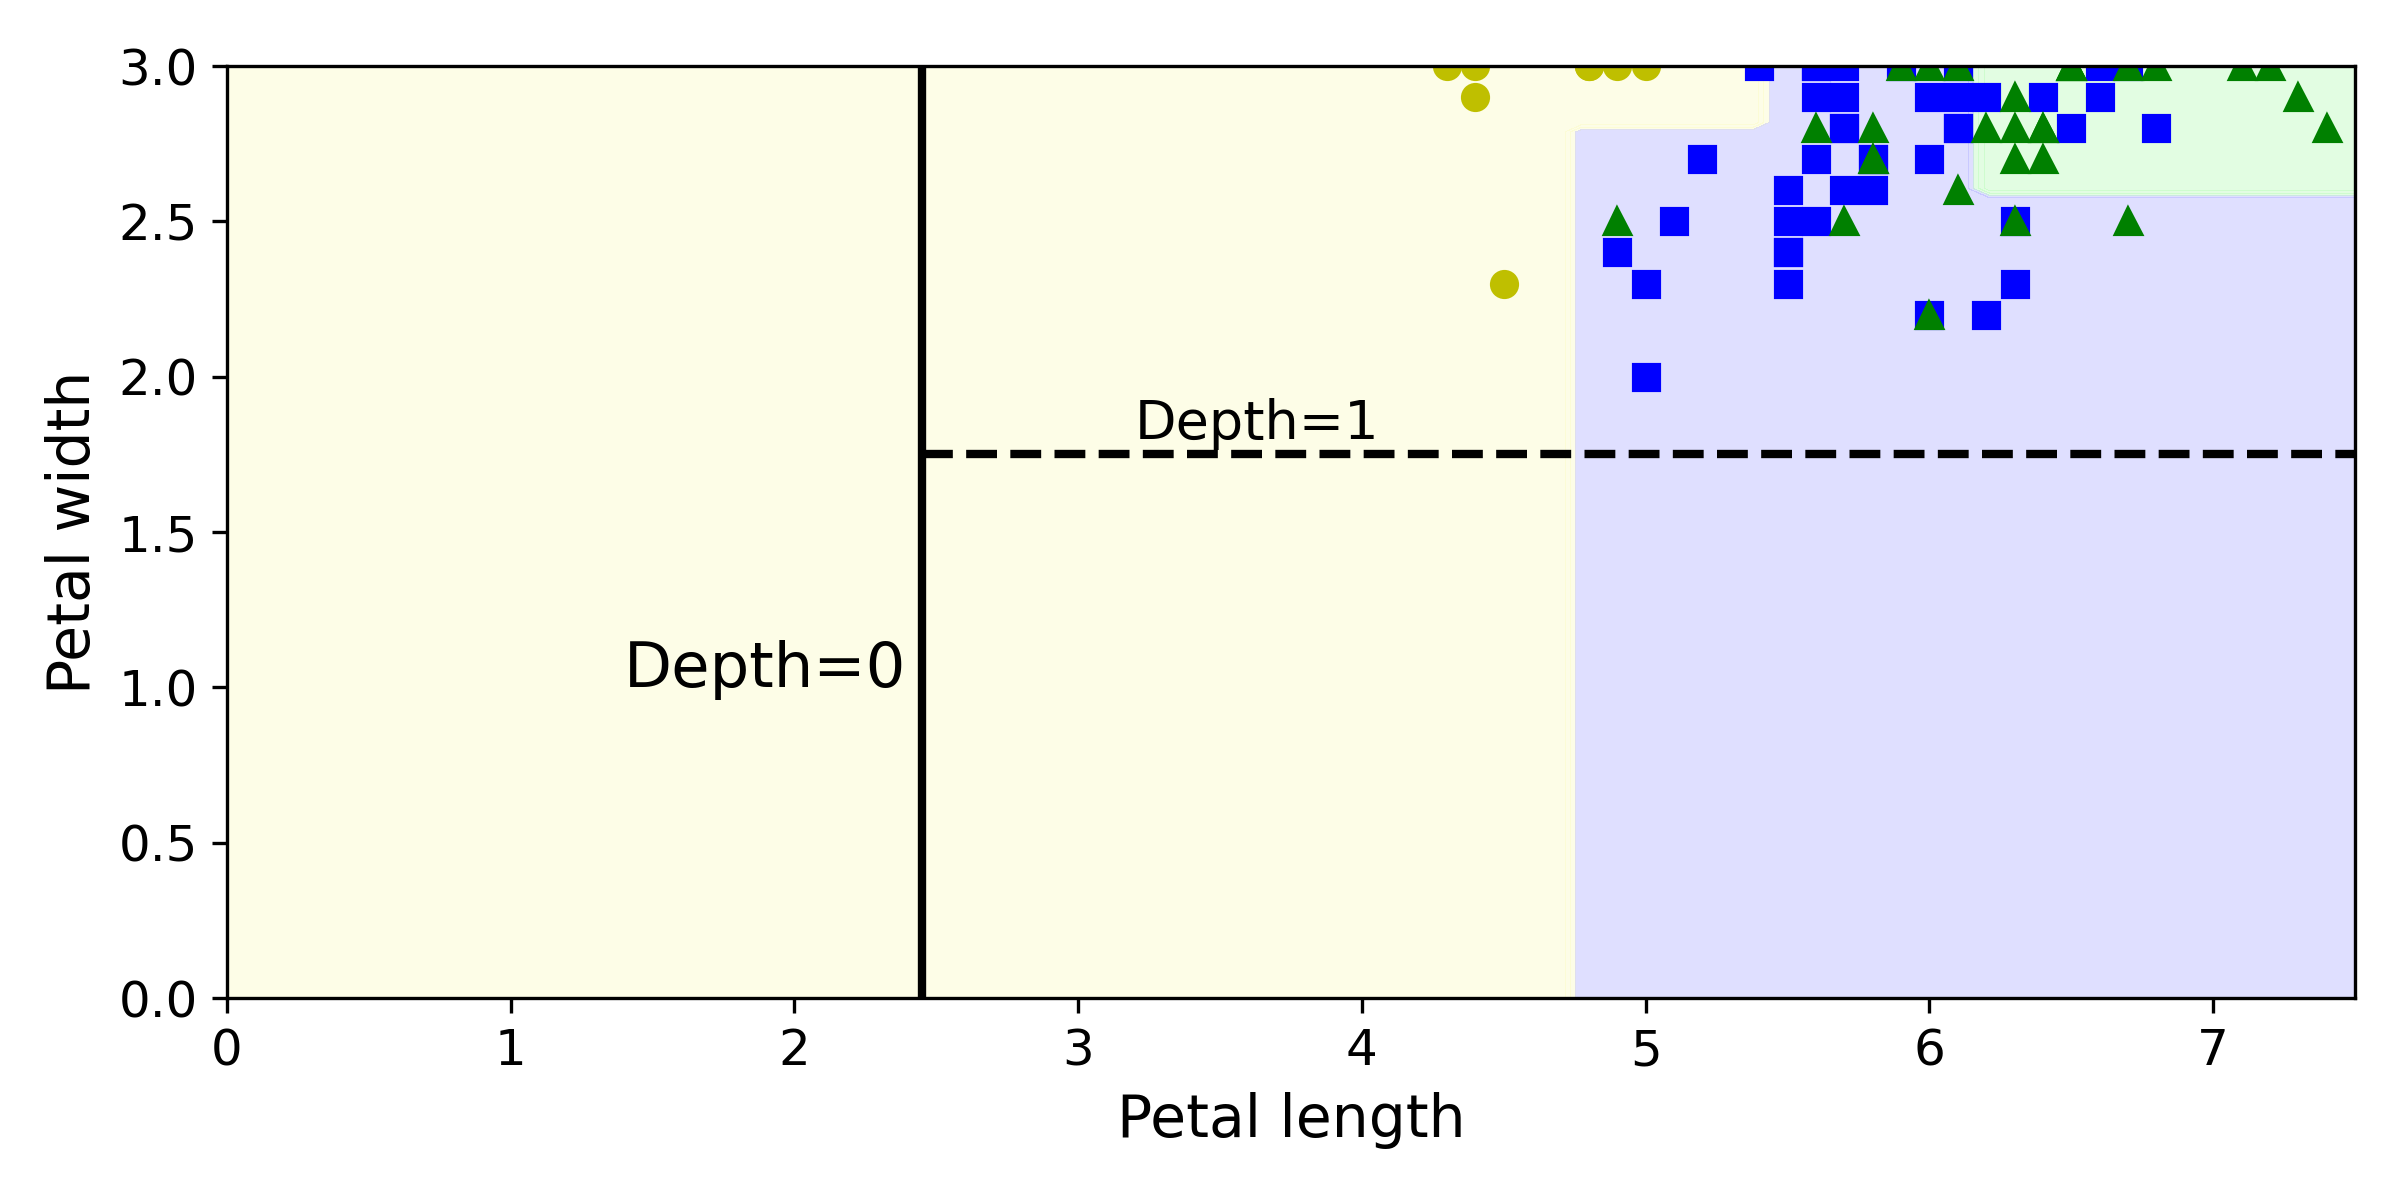
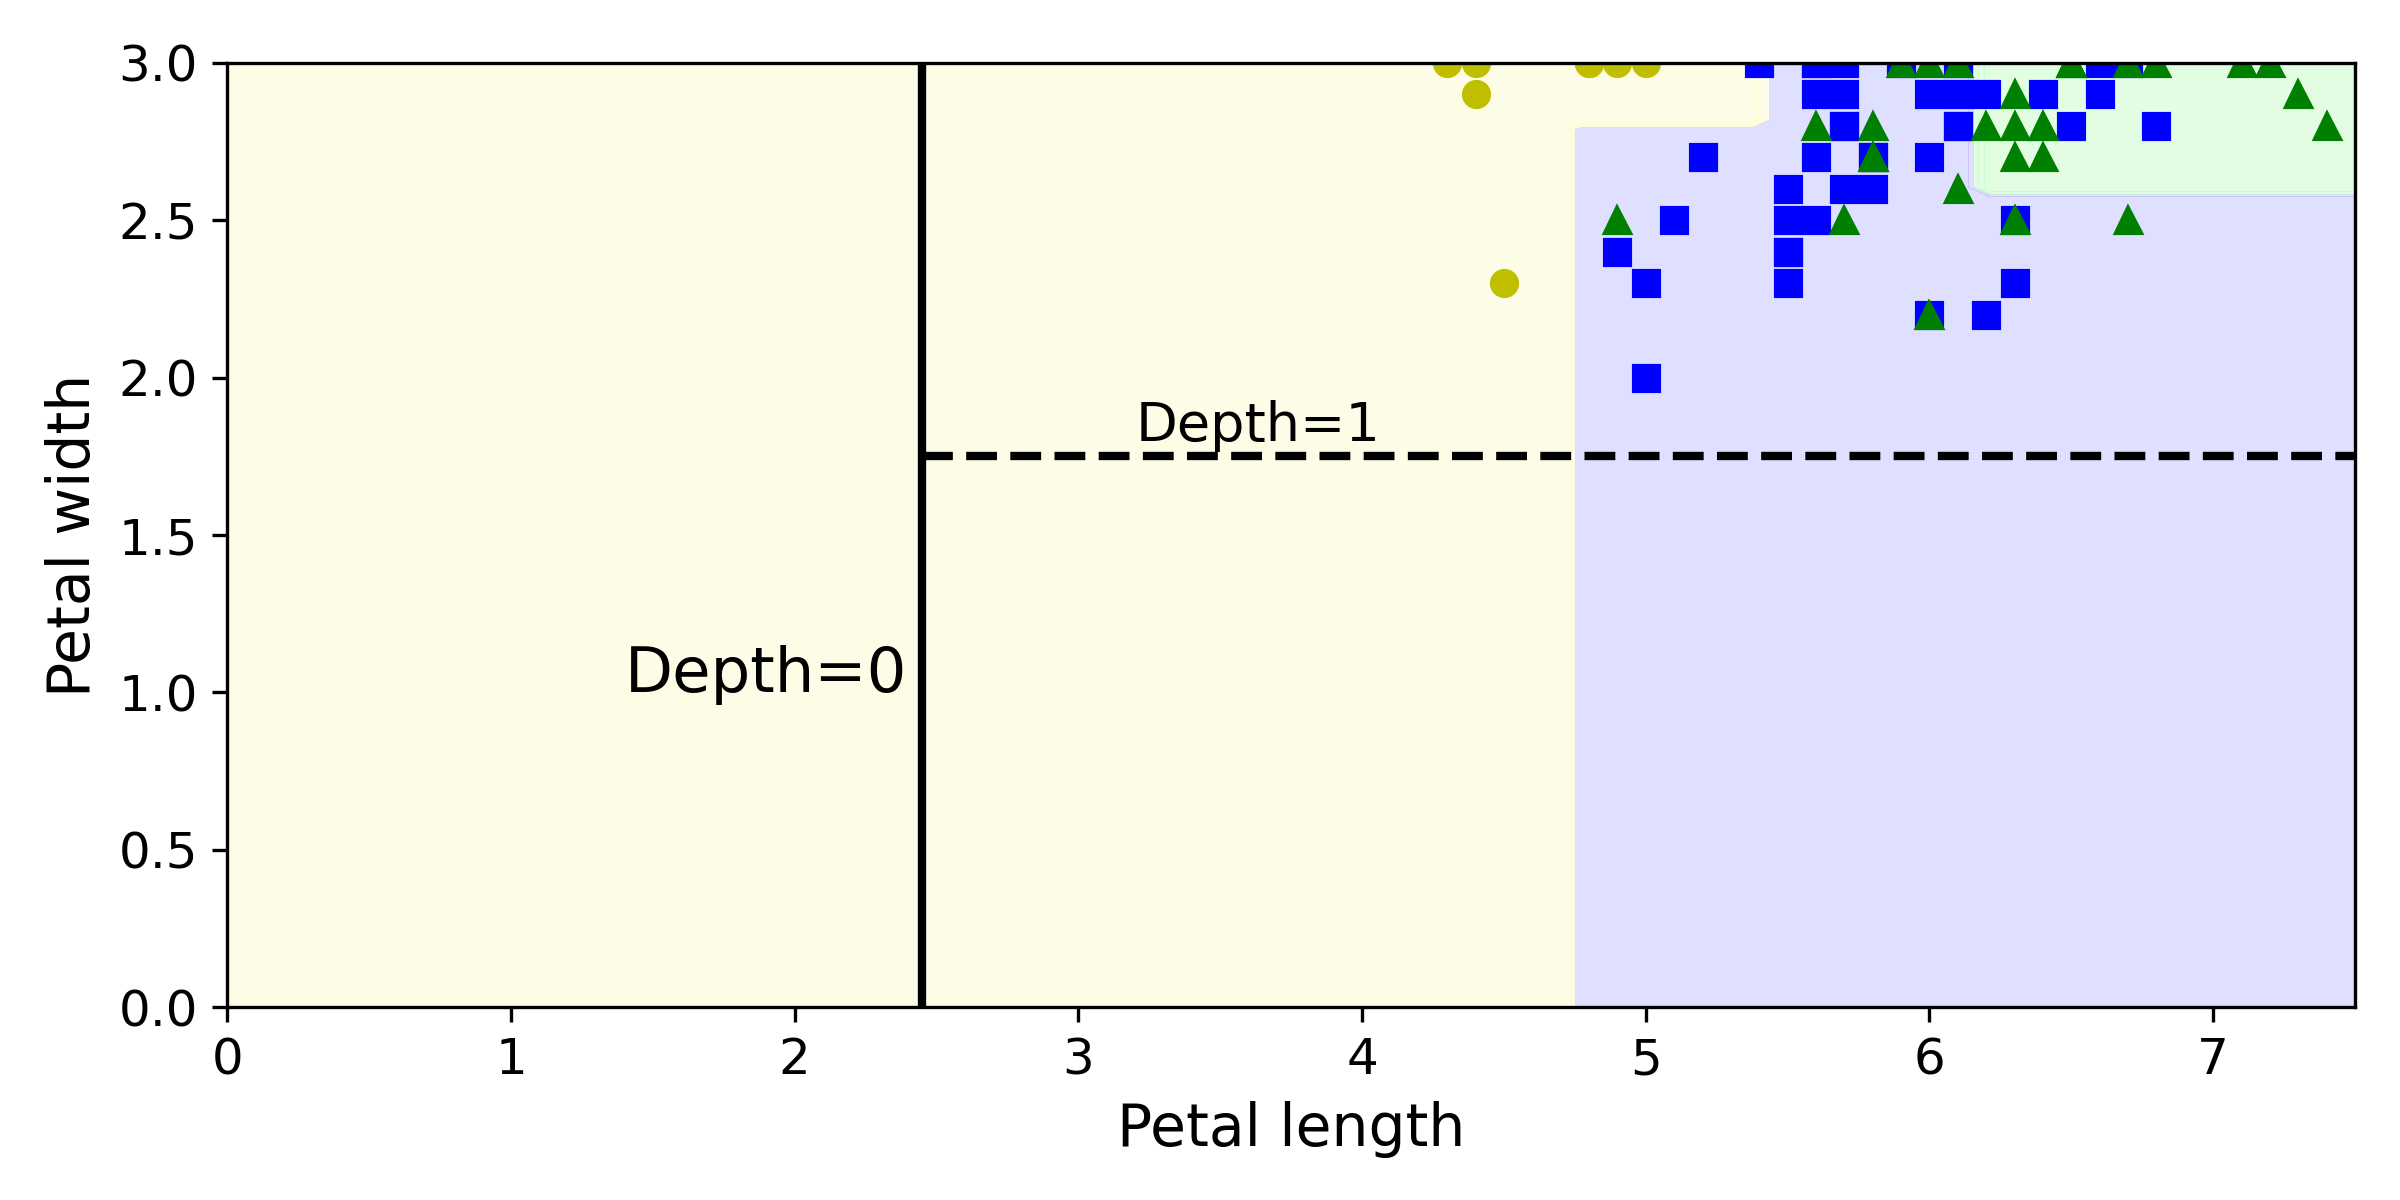
Practica 5 finalizada

diff --git a/Prácticas/Práctica_5/practice5.py b/Prácticas/Práctica_5/practice5.py
@@ -100,7 +100,7 @@ def iris_procedure():
 
 def wine_procedure():
     wine = datasets.load_wine()
-    X = wine.data[:2,:2]
+    X = wine.data[:,:2]
     y = wine.target
 
     X_train, X_test, y_train, y_test = train_test_split(X, y, test_size=0.3, random_state=42)
@@ -112,7 +112,7 @@ def wine_procedure():
     export_graphviz(
             tree_clf,
             out_file=os.path.join(IMAGES_PATH, "wine_tree.dot"),
-            feature_names=wine.feature_names[2:],
+            feature_names=wine.feature_names[:2],
             class_names=wine.target_names,
             rounded=True,
             filled=True
@@ -130,11 +130,7 @@ def wine_procedure():
     print(precision)
 
     plt.figure(figsize=(8, 4))
-    plot_decision_boundary(tree_clf, X, y)
-    plt.plot([2.45, 2.45], [0, 3], "k-", linewidth=2)
-    plt.plot([2.45, 7.5], [1.75, 1.75], "k--", linewidth=2)
-    plt.text(1.40, 1.0, "Depth=0", fontsize=15)
-    plt.text(3.2, 1.80, "Depth=1", fontsize=13)
+    plot_decision_boundary(tree_clf, X, y, axes=[10, 16, 0, 6], iris=False)
     save_fig("wine_decision_tree_decision_boundaries_plot")
     plt.show()
 
@@ -152,8 +148,8 @@ def breast_procedure():
     export_graphviz(
             tree_clf,
             out_file=os.path.join(IMAGES_PATH, "breast_cancer_tree.dot"),
-            feature_names=wine.feature_names[2:],
-            class_names=wine.target_names,
+            feature_names=breast.feature_names[:2],
+            class_names=breast.target_names,
             rounded=True,
             filled=True
         )
@@ -170,11 +166,7 @@ def breast_procedure():
     print(precision)
 
     plt.figure(figsize=(8, 4))
-    plot_decision_boundary(tree_clf, X, y)
-    plt.plot([2.45, 2.45], [0, 3], "k-", linewidth=2)
-    plt.plot([2.45, 7.5], [1.75, 1.75], "k--", linewidth=2)
-    plt.text(1.40, 1.0, "Depth=0", fontsize=15)
-    plt.text(3.2, 1.80, "Depth=1", fontsize=13)
+    plot_decision_boundary(tree_clf, X, y, axes=[5, 30, 5, 40], iris=False)
     save_fig("breast_cancer_decision_tree_decision_boundaries_plot")
     plt.show()
 
